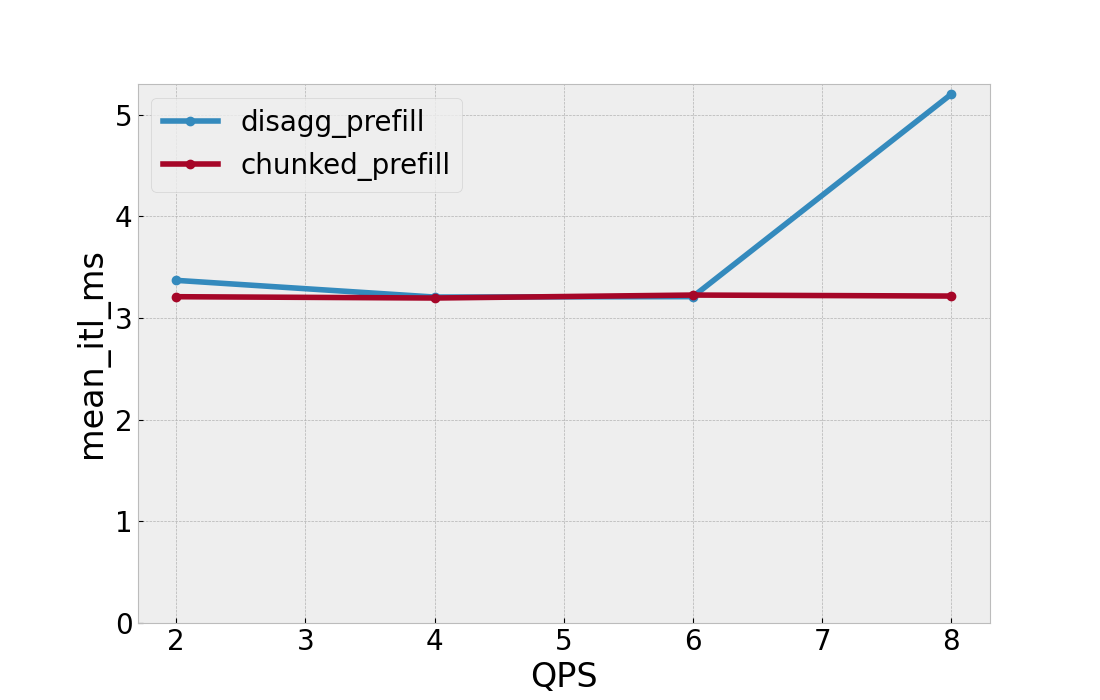
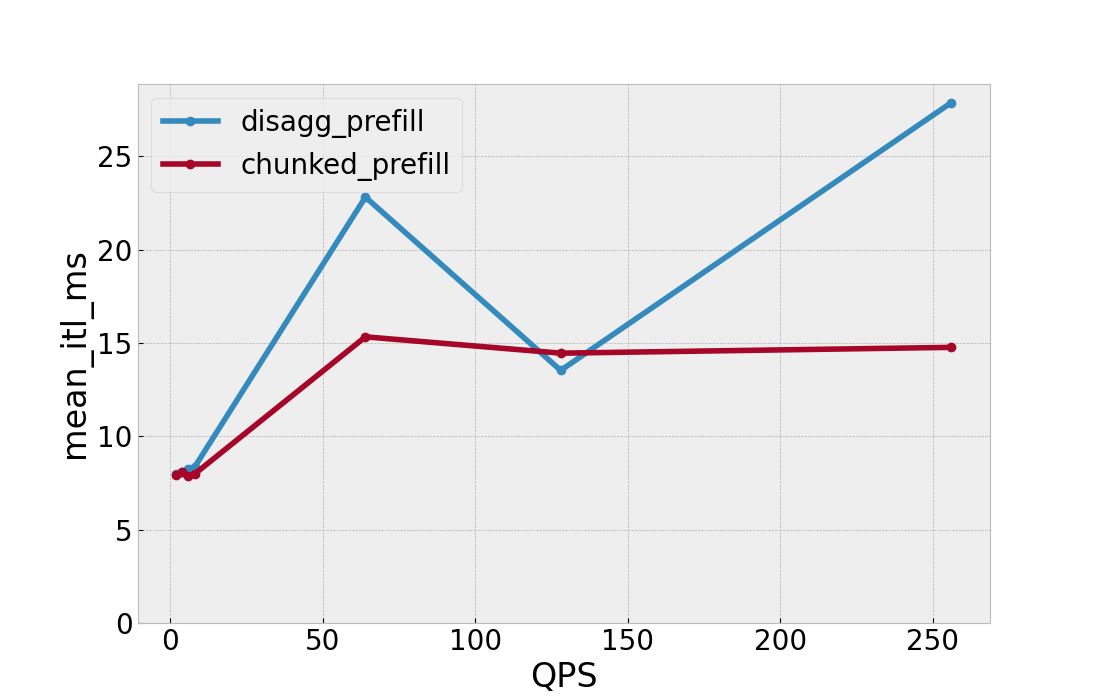
update_disagg test results with lmcache

diff --git a/benchmarks/disagg_benchmarks/visualize_benchmark_results.py b/benchmarks/disagg_benchmarks/visualize_benchmark_results.py
@@ -9,7 +9,7 @@ import pandas as pd
 if __name__ == "__main__":
     data = []
     for name in ["disagg_prefill", "chunked_prefill"]:
-        for qps in [2, 4, 6, 8]:
+        for qps in [2, 4, 6, 8, 64, 128, 256]:
             with open(f"results/{name}-qps-{qps}.json") as f:
                 x = json.load(f)
                 x["name"] = name
